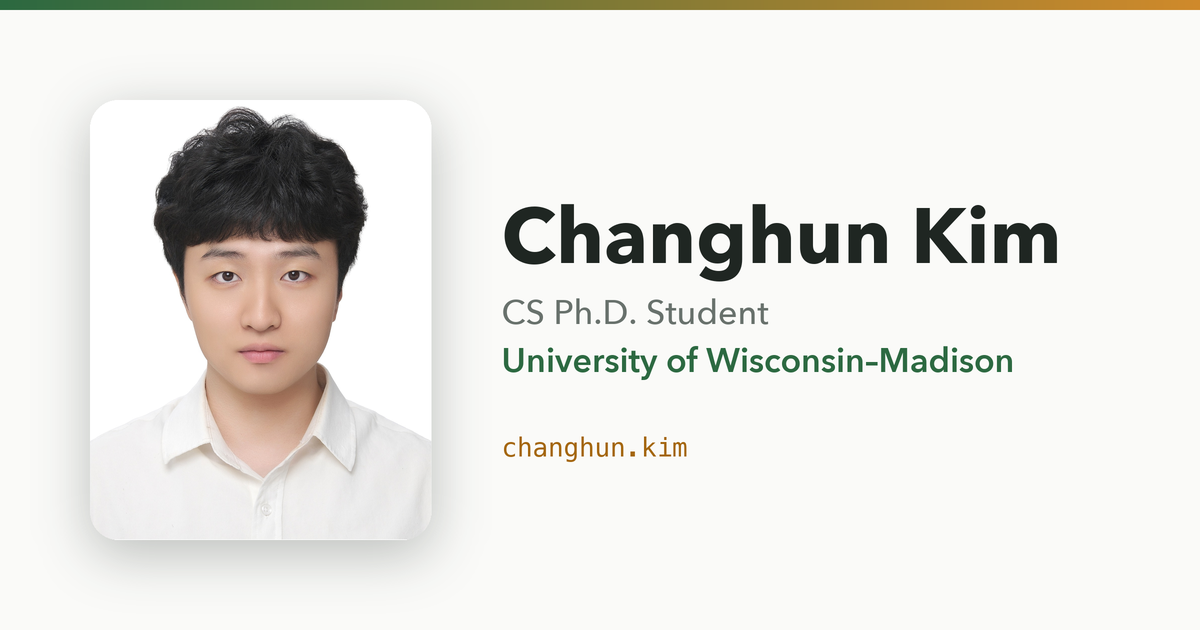
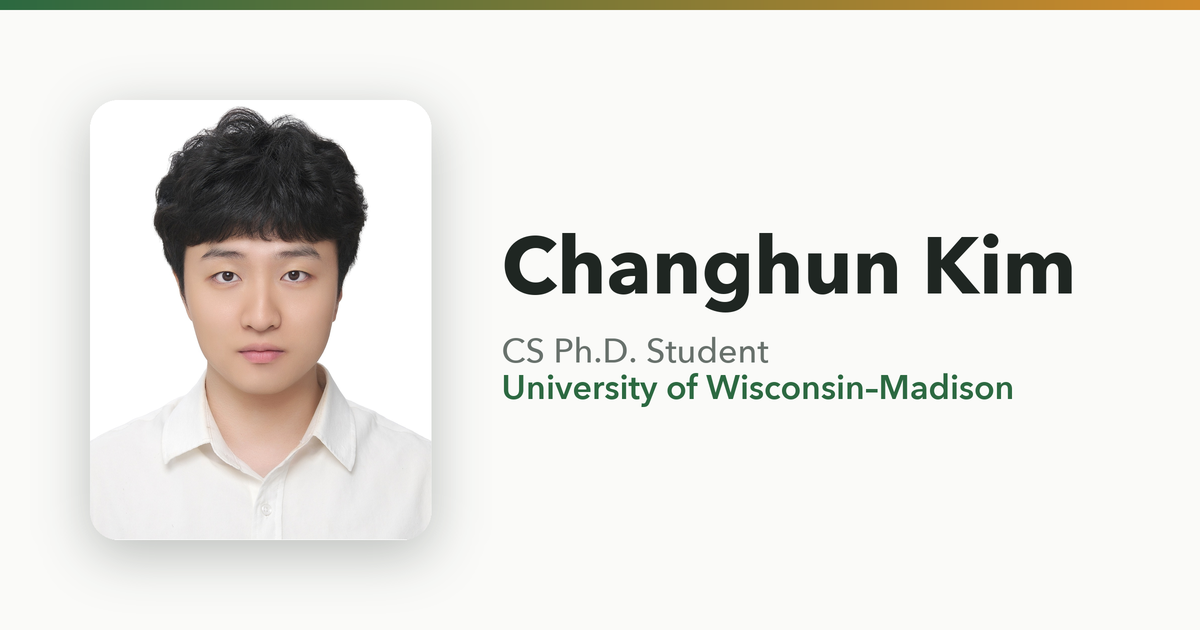
chore: Simplify the sharing card, use the name as page title, update CV
- Sharing card: photo, name, role and affiliation only (the whole card
  links to the site)
- Page title back to just the name; role and affiliation are in the
  description and structured data
- CV: updated PDF

Changed region(s): [[0.4008, 0.3317, 0.8942, 0.6333], [0.4008, 0.6937, 0.5858, 0.7238]]

diff --git a/content/_index.md b/content/_index.md
@@ -1,7 +1,5 @@
 ---
 type: landing
-seo:
-  title: Changhun Kim · Ph.D. Student at UW–Madison
 # Home page blocks, in order. Each `site.*` block lives in
 # layouts/partials/blocks/ and reads its entries from content/<folder>/.
 sections:
